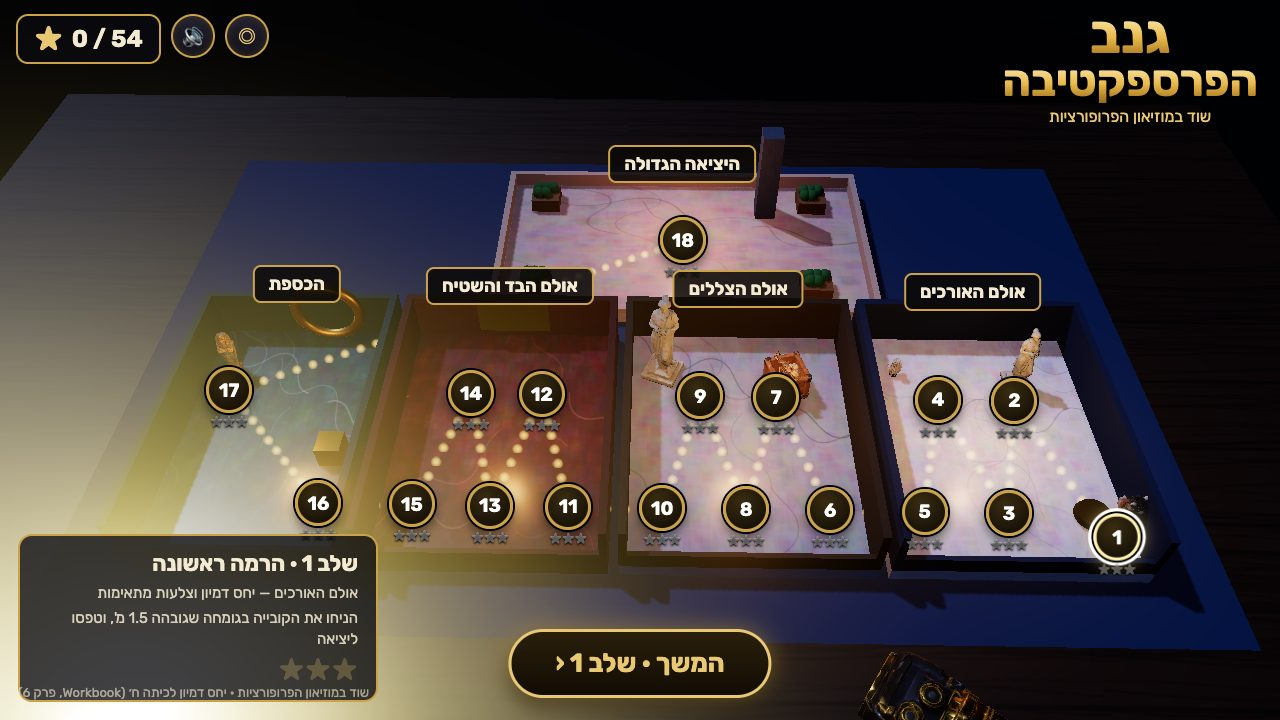
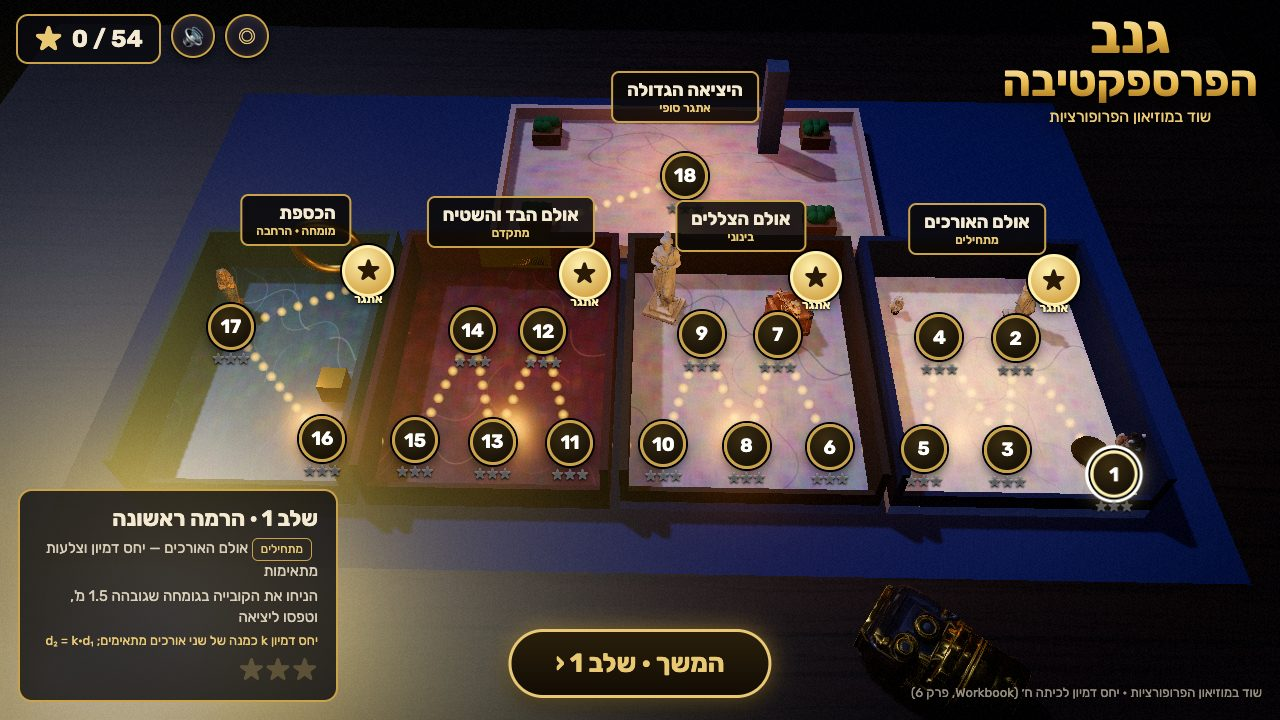
Round-2 playtest report with responses, refreshed captures and docs, darker vault steel

diff --git a/src/world.ts b/src/world.ts
@@ -45,7 +45,7 @@ export const M = {
   lightWood: () => mat('lightWood', () => new THREE.MeshStandardMaterial({ map: woodTexture(false), roughness: 0.65 })),
   crate: () => mat('crate', () => new THREE.MeshStandardMaterial({ map: crateTexture(), roughness: 0.8 })),
   velvet: () => mat('velvet', () => new THREE.MeshStandardMaterial({ map: velvetTexture(), roughness: 0.95 })),
-  steel: () => mat('steel', () => new THREE.MeshStandardMaterial({ color: '#7f9aa0', roughness: 0.35, metalness: 0.9 })),
+  steel: () => mat('steel', () => new THREE.MeshStandardMaterial({ color: '#5c7076', roughness: 0.55, metalness: 0.85 })),
   dark: () => mat('dark', () => new THREE.MeshStandardMaterial({ color: '#0b0b10', roughness: 0.9 })),
   void: () => mat('void', () => new THREE.MeshBasicMaterial({ color: '#020205' })),
   laser: () => mat('laser', () => new THREE.MeshBasicMaterial({ color: '#ff2a2a', transparent: true, opacity: 0.9, blending: THREE.AdditiveBlending, depthWrite: false })),

diff --git a/PLAYTEST2.md b/PLAYTEST2.md
@@ -161,3 +161,31 @@ L1, 9, 11, 12, 15 and 16 (round-1 B2) are unchanged and acknowledged. The consta
 ## What automation cannot tell you
 
 A robot pressing keys and reading screenshots **can't measure fun, frustration, or whether a 13-year-old learns similarity from this**. It can't tell whether the slapstick lands, whether kids read the plates, or whether they will actually find the restart bypass. Audio was not checked. Nothing ran on a real phone or with a real mouse and pointer lock. The next step is a handful of grade-8 players, watched without help, with a before/after item on k vs k² vs k³.
+
+## Lead's response — fixes after round 2 (2026-10-31)
+
+Re-verified afterwards: `npm test` 64/64 (new: chase head-start ≥ 1.5 s on every level, challenge rooms on 100 seeds); all 18 levels played start to finish again through keyboard events in headless Chromium (`npm run capture` → `solveAll` + `finale`, 3★ each); fresh captures in `docs/captures/` (including `levels-01-09-aim.jpg`, `levels-10-18-aim.jpg`).
+
+| # | Finding | Status |
+|---|---|---|
+| 1 | Level 18 no shadows | **Fixed — root cause was global:** the sun's shadow camera frustum was set but `updateProjectionMatrix()` was never called, so every level only had shadows within ±5 m of the room centre. Rooftop lighting rebalanced (low hemisphere fill, stronger sun, darker terracotta floor); the obelisk and tower shadows now lie on their rulers. |
+| 2 | Miss ×3, read k, restart → 3★ + badge | **Fixed.** Once a card has shown the needed k on a level, that level is capped at 2★ in every later run (persisted), with no first-try badge and a note on the results card. |
+| 3 | Hide spot too close to the guard door (L3, L7, L4…) | **Fixed.** Doors/hides moved on levels 1, 3, 4, 6, 7, 10, 15; a test now requires ≥ 1.5 s head start from every drop spot. |
+| 4 | L18 guard teleports to the door on an alarm | **Fixed** (a patrolling guard chases from where he is). |
+| 5 | L18 guard T-pose while frozen | **Fixed** (he idles in place). |
+| 6 | Replaying moves "Continue" backwards | **Fixed** (only advances). |
+| 7 | Locked toast invisible on the map; locked nodes look open | **Fixed** (toast lives outside the HUD; locked nodes greyed). |
+| 8 | Math in "תרגלתם" flips | **Fixed** (math in the skill lines is LTR-isolated). |
+| 9 | Vision cone unreadable / 1.4 m radius not drawn | **Fixed** (brighter fan, bright edge arc, and the 1.4 m "too close" ring). |
+| 10 | Plates blown out by target spotlights | **Fixed** (softer spots, matte plates). |
+| 11 | L8 side labels unreadable | **Fixed** (big brass number tags on the sign and frame). |
+| 12 | L15 frame tiny | **Improved** (frame at eye height, bigger aim zone); its size stays 24 cm because the handoff's cm² numbers require it. |
+| 13 | L17 vault glare, key/keyhole invisible | **Fixed** (darker steel, a dark round escutcheon behind the keyhole). |
+| 14 | Mobile chip over the act button; keyboard text on touch | **Fixed.** |
+| 15 | 99.8 % + sniper badge after misses; "1 הנחות" | **Fixed** ("accuracy of the successful drop", badge only with no misses, singular text). |
+| 16 | Challenge-room wording and names | **Fixed** ("חיישן גובה", neighbouring busts match the asked height, one name: "★ חדר אתגר"). |
+| 17 | Roof hole persists | **Fixed** (cleared when the chase ends). |
+| 18 | L7 mirror black | **Fixed** (bright mirror). L10 pole / L14 planter filling the view is the forced perspective itself; kept. |
+| 19 | Hard-edged window shafts | **Fixed** (soft gradient shafts). Crash geometry passing through remains. |
+| 20 | Finale gives k on the 3rd miss; "k עצמו"; exit toast over results | **Fixed** (finale card stops at the ratio kind; "כל אורך גדל פי k"; toast suppressed under cards). |
+| 21 | ×3 constant on six levels | **Not changed** (handoff's authored k). |

diff --git a/progress.md b/progress.md
@@ -13,9 +13,12 @@ Original prompt: build Perspective Thief (גנב הפרספקטיבה), a real-3
 7. **Visual review** against the mockups with real captures: `docs/VISUAL_REVIEW.md`, `docs/captures/`. Fixed: overexposure, ruler orientation, vent hidden behind the wainscot, exit arch over the vent, held object hiding the target (now held lower right), menu RTL order, mobile HUD overlap, pause on failed pointer lock, hide camera inside the sarcophagus, guard searching nose-to-nose, keyboard turn speed.
 8. **Independent playtest** (`PLAYTEST.md`): found 5 bypasses, 6 bugs, clarity items. Fixed: progressive worked-ratio card (no answer on the 1st miss), floor drops return to the pedestal, caught costs a star + hide arrow, guard sees while you stand still, touch climb button, visible roof hole + camera tilt, mobile map fit, toast leak, map selection after a win, Hebrew wording, L12 rename, L3 range wording, larger L8 labels. Not changed: ×3 constant wins 6 single-target levels (handoff's authored k values). Re-verified all 18 levels in the browser afterwards.
 
+9. **AAA pass (user request: "make it look awesome… test each and every level… until it's perfect")**: audited all 18 levels from contact sheets; new room art (floors, pilasters, chandeliers, panels, cases, target spotlights, dust, grade), deep chasm, gloved brass lens, rooftop city/sun/string lights; cinematic intro, hall briefings with difficulty tiers, results screen with accuracy and badges, challenge rooms on the map (two templates per hall), success stamp, slow-mo, shockwave, per-hall music, sensitivity setting. Fixed z-fighting, and a global bug where sun shadows only existed within 5 m of each room's centre.
+10. **Round-2 playtest** (`PLAYTEST2.md`): every level played with three wrong drops each; 21 findings; all but the ×3-constant one fixed (see the response table). Re-verified all 18 levels in the browser.
+
 ## State
 
-- `npm test`: 59/59 pass. `npm run build`: OK. Dev server: port 5214.
+- `npm test`: 64/64 pass. `npm run build`: OK. Dev server: port 5214.
 - Measured 60 fps (headless GPU, 720p/1080p). Bundle: JS 875 KB (234 KB gz), models 5.9 MB.
 
 ## TODO / ideas

diff --git a/docs/VISUAL_REVIEW.md b/docs/VISUAL_REVIEW.md
@@ -1,5 +1,7 @@
 # Visual review — mockups vs the real game
 
+> **Update 2026-10-31 (AAA pass):** the halls now have per-hall inlaid marble floors (herringbone parquet in the Hall of Shadows), fluted marble pilasters, chandeliers, walnut-panelled mezzanines, glass display cases, a spotlight on every target, drifting dust, soft window shafts, a cinematic grade, and the first-person view is a brass lens in a black glove (as in the mockups). New screens: the letterbox level intro (`05-intro-cinematic.jpg`), hall briefing with the difficulty tier (`05b-hall-briefing.jpg`) and the results screen (`05c-results.jpg`). Every level's aim view is in `levels-01-09-aim.jpg` and `levels-10-18-aim.jpg`. The notes below were written before this pass; where they say the scenes are plainer than the mockups or that the lens reads as a camera, that is no longer the case.
+
 Targets: `docs/visual-targets/01–04` (ChatGPT image generation, design targets only; see `PROMPTS.md`).
 Actual: `docs/captures/*.jpg`, captured 2026-10-31 by `tests/browser-capture.mjs` in headless Chromium (Metal/ANGLE GPU), 1280 × 720 (the mockups' 16:9), playing through **keyboard events only** (`tests/autopilot.js`) plus the deterministic `advanceTime` hook. Nothing was posed by setting game state. Run `npm run capture` with the dev server up to regenerate (writes `test-output/captures/`).
 

diff --git a/README.md b/README.md
@@ -9,7 +9,7 @@ Hebrew RTL UI, Three.js, 18 authored levels in 5 halls, plus generated "surprise
 ```bash
 npm install
 npm run dev        # http://localhost:5214  (strict port)
-npm test           # 63 unit tests: rules, all 18 levels solvable through the sim, misconception traps
+npm test           # 64 unit tests: rules, all 18 levels solvable through the sim, misconception traps
 npm run build      # static build in dist/ (relative base, works offline)
 npm run preview    # http://localhost:4214
 npm run capture    # needs the dev server: plays scenarios in headless Chromium, saves screenshots
